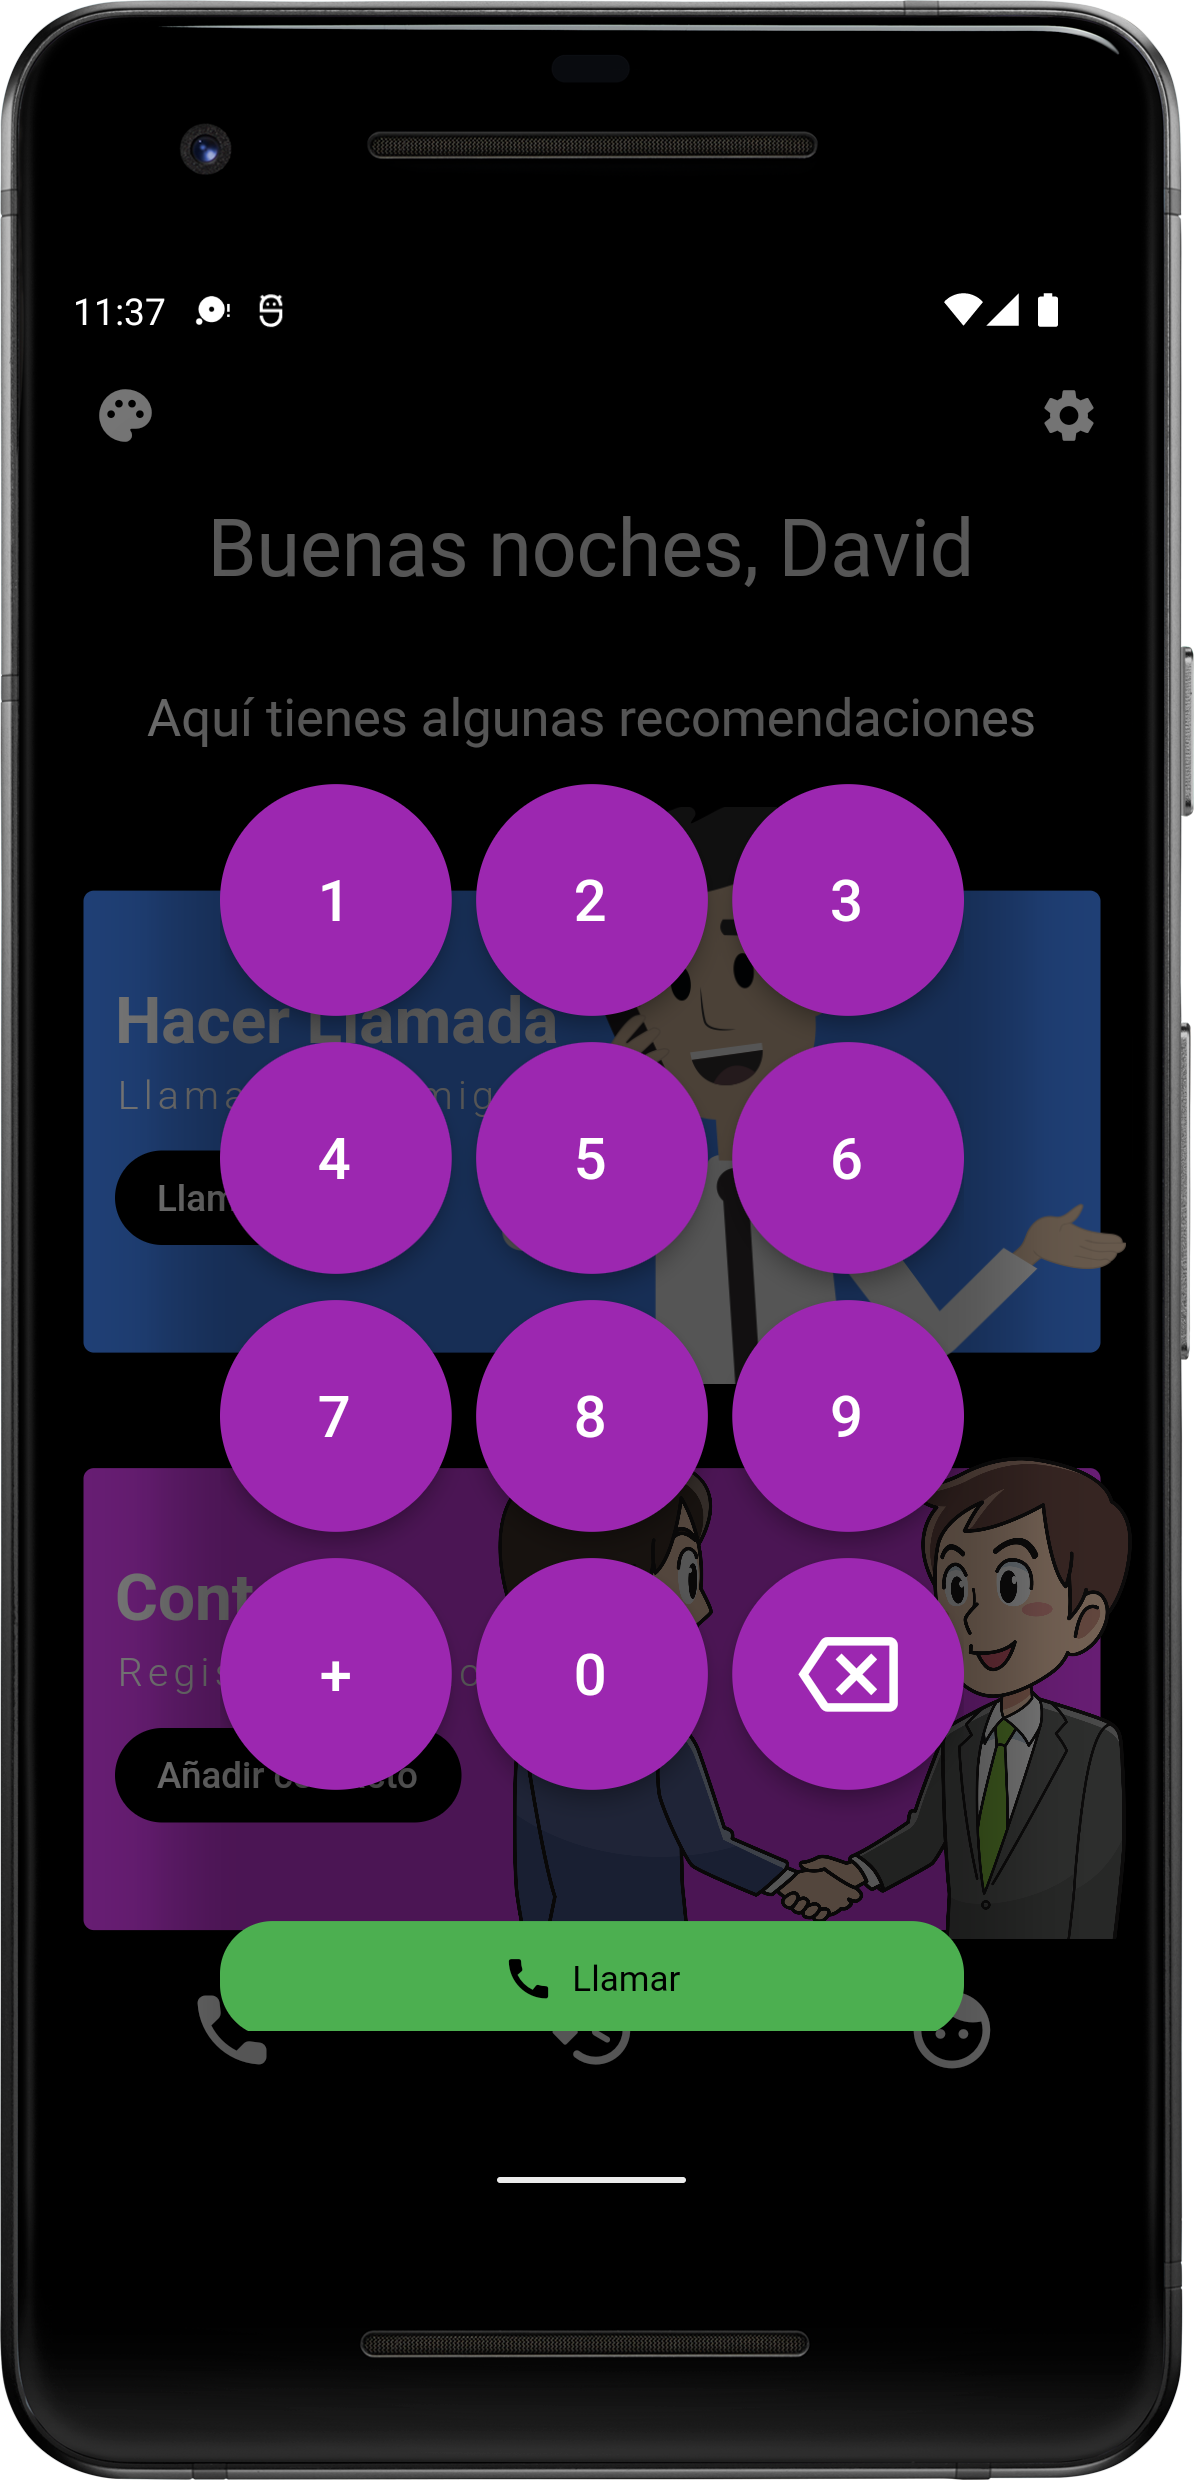
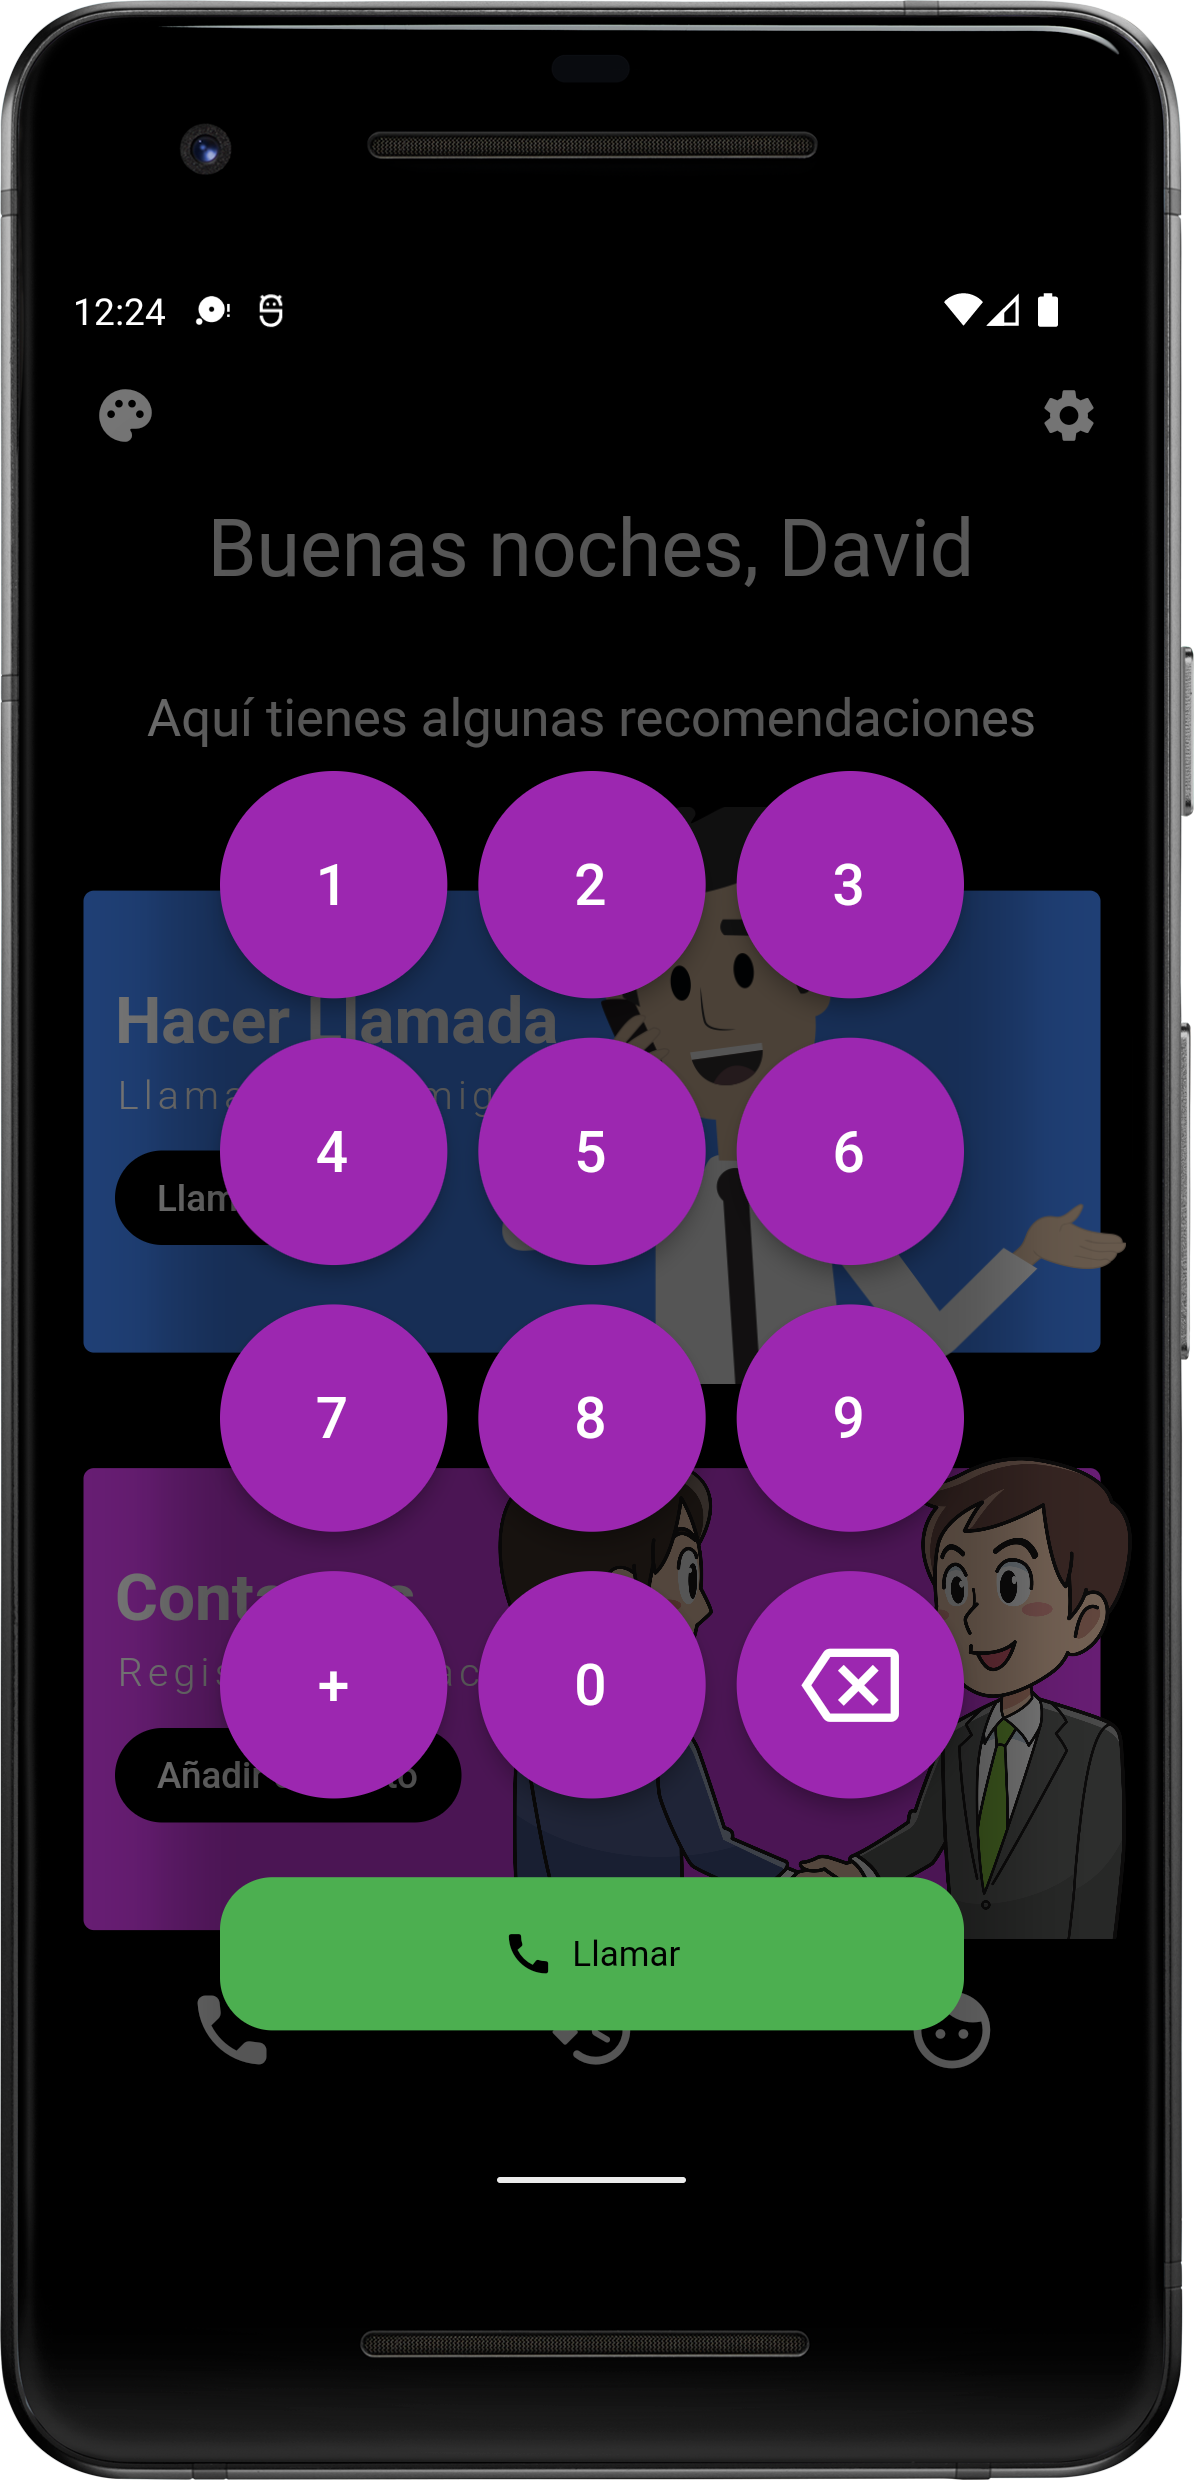
Revamped dial pad screen 📞
- DialPad is no longer a class.
It now shows on an AlertDialog. Same functionality but works better now

- Bugfixes for all UI (Design and Logic)

diff --git a/lib/Dialer.dart b/lib/Dialer.dart
@@ -780,7 +780,7 @@ class _DialerState extends State<Dialer>{
     }  else if (numero.length == 1) {
       font == 55;
     } else if (numero.length > 12){
-      font = 35;
+      font = 40;
     }
 
     return font;
@@ -820,7 +820,7 @@ class _DialerState extends State<Dialer>{
                           child: Column(
                             mainAxisSize: MainAxisSize.min,
                             children: <Widget>[
-                              SizedBox(width: 45, height: 30,),
+                              SizedBox(width: 45, height: 10,),
                               Text(number, style: TextStyle(
                                   fontSize: fontsize,
                                   color: fonts[mode_counter],
@@ -831,14 +831,13 @@ class _DialerState extends State<Dialer>{
 
 
                         ),
-                        SizedBox(height: 5,),
                         FittedBox(
                           child: Row(
                             mainAxisSize: MainAxisSize.min,
                             children: <Widget>[
                               SizedBox(
-                                height: 95.0,
-                                width: 95.0,
+                                height: 110.0,
+                                width: 110.0,
                                 child: FittedBox(
                                   child: FloatingActionButton(
                                     backgroundColor: Colors
@@ -857,10 +856,10 @@ class _DialerState extends State<Dialer>{
                                     },
                                   ),
                                 ),
-                              ), SizedBox(width: 10,),
+                              ), SizedBox(width: 15,),
                               SizedBox(
-                                height: 95.0,
-                                width: 95.0,
+                                height: 110.0,
+                                width: 110.0,
                                 child: FittedBox(
                                   child: FloatingActionButton(
                                     backgroundColor: Colors
@@ -877,10 +876,10 @@ class _DialerState extends State<Dialer>{
                                     },
                                   ),
                                 ),
-                              ), SizedBox(width: 10,),
+                              ), SizedBox(width: 15,),
                               SizedBox(
-                                height: 95.0,
-                                width: 95.0,
+                                height: 110.0,
+                                width: 110.0,
                                 child: FittedBox(
                                   child: FloatingActionButton(
                                     backgroundColor: Colors
@@ -902,14 +901,14 @@ class _DialerState extends State<Dialer>{
                             ],
                           ),
                         ),
-                        SizedBox(height: 10,),
+                        SizedBox(height: 15,),
                         FittedBox(
                           child: Row(
                             mainAxisSize: MainAxisSize.min,
                             children: <Widget>[
                               SizedBox(
-                                height: 95.0,
-                                width: 95.0,
+                                height: 110.0,
+                                width: 110.0,
                                 child: FittedBox(
                                   child: FloatingActionButton(
                                     backgroundColor: Colors
@@ -926,10 +925,10 @@ class _DialerState extends State<Dialer>{
                                     },
                                   ),
                                 ),
-                              ), SizedBox(width: 10,),
+                              ), SizedBox(width: 15,),
                               SizedBox(
-                                height: 95.0,
-                                width: 95.0,
+                                height: 110.0,
+                                width: 110.0,
                                 child: FittedBox(
                                   child: FloatingActionButton(
                                     backgroundColor: Colors
@@ -946,10 +945,10 @@ class _DialerState extends State<Dialer>{
                                     },
                                   ),
                                 ),
-                              ), SizedBox(width: 10,),
+                              ), SizedBox(width: 15,),
                               SizedBox(
-                                height: 95.0,
-                                width: 95.0,
+                                height: 110.0,
+                                width: 110.0,
                                 child: FittedBox(
                                   child: FloatingActionButton(
                                     backgroundColor: Colors
@@ -971,15 +970,15 @@ class _DialerState extends State<Dialer>{
                           ),
                         ),
 
-                        SizedBox(height: 10,),
+                        SizedBox(height: 15,),
 
                         FittedBox(
                           child: Row(
                             mainAxisSize: MainAxisSize.min,
                             children: <Widget>[
                               SizedBox(
-                                height: 95.0,
-                                width: 95.0,
+                                height: 110.0,
+                                width: 110.0,
                                 child: FittedBox(
                                   child: FloatingActionButton(
                                     backgroundColor: Colors
@@ -996,10 +995,10 @@ class _DialerState extends State<Dialer>{
                                     },
                                   ),
                                 ),
-                              ), SizedBox(width: 10,),
+                              ), SizedBox(width: 15,),
                               SizedBox(
-                                height: 95.0,
-                                width: 95.0,
+                                height: 110.0,
+                                width: 110.0,
                                 child: FittedBox(
                                   child: FloatingActionButton(
                                     backgroundColor: Colors
@@ -1016,10 +1015,10 @@ class _DialerState extends State<Dialer>{
                                     },
                                   ),
                                 ),
-                              ), SizedBox(width: 10,),
+                              ), SizedBox(width: 15,),
                               SizedBox(
-                                height: 95.0,
-                                width: 95.0,
+                                height: 110.0,
+                                width: 110.0,
                                 child: FittedBox(
                                   child: FloatingActionButton(
                                     backgroundColor: Colors
@@ -1041,15 +1040,15 @@ class _DialerState extends State<Dialer>{
                           ),
                         ),
 
-                        SizedBox(height: 10,),
+                        SizedBox(height: 15,),
 
                         FittedBox(
                           child: Row(
                             mainAxisSize: MainAxisSize.min,
                             children: <Widget>[
                               SizedBox(
-                                height: 95.0,
-                                width: 95.0,
+                                height: 110.0,
+                                width: 110.0,
                                 child: FittedBox(
                                   child: FloatingActionButton(
                                     backgroundColor: Colors
@@ -1065,10 +1064,10 @@ class _DialerState extends State<Dialer>{
                                     },
                                   ),
                                 ),
-                              ), SizedBox(width: 10,),
+                              ), SizedBox(width: 15,),
                               SizedBox(
-                                height: 95.0,
-                                width: 95.0,
+                                height: 110.0,
+                                width: 110.0,
                                 child: FittedBox(
                                   child: FloatingActionButton(
                                     backgroundColor: Colors
@@ -1085,10 +1084,10 @@ class _DialerState extends State<Dialer>{
                                     },
                                   ),
                                 ),
-                              ), SizedBox(width: 10,),
+                              ), SizedBox(width: 15,),
                               SizedBox(
-                                height: 95.0,
-                                width: 95.0,
+                                height: 110.0,
+                                width: 110.0,
                                 child: FittedBox(
                                   child: FloatingActionButton(
                                     backgroundColor: Colors
@@ -1114,7 +1113,7 @@ class _DialerState extends State<Dialer>{
                           ),
                         ),
 
-                        SizedBox(height: 50,),
+                        SizedBox(height: 30,),
                         FittedBox(
 
                             child: Row(
@@ -1129,7 +1128,7 @@ class _DialerState extends State<Dialer>{
                                     ),
                                     style: TextButton.styleFrom(
                                       textStyle: TextStyle(color: Colors.black),
-                                      backgroundColor: Colors.green,fixedSize: const Size(340, 53),
+                                      backgroundColor: Colors.green,fixedSize: const Size(340, 70),
                                       shape:RoundedRectangleBorder(
                                         borderRadius: BorderRadius.circular(24.0),
                                       ),
@@ -1139,7 +1138,12 @@ class _DialerState extends State<Dialer>{
                                     readJson();
                                     writeJson(number, formattedDate);
                                     llamar(number);
-                                    number = "";
+
+                                    setState((){
+                                      number = "";
+                                      fontsize = 45;
+                                    });
+
                                      },
                                     icon: Icon(Icons.call, color: Colors.black,),
                                   ),
